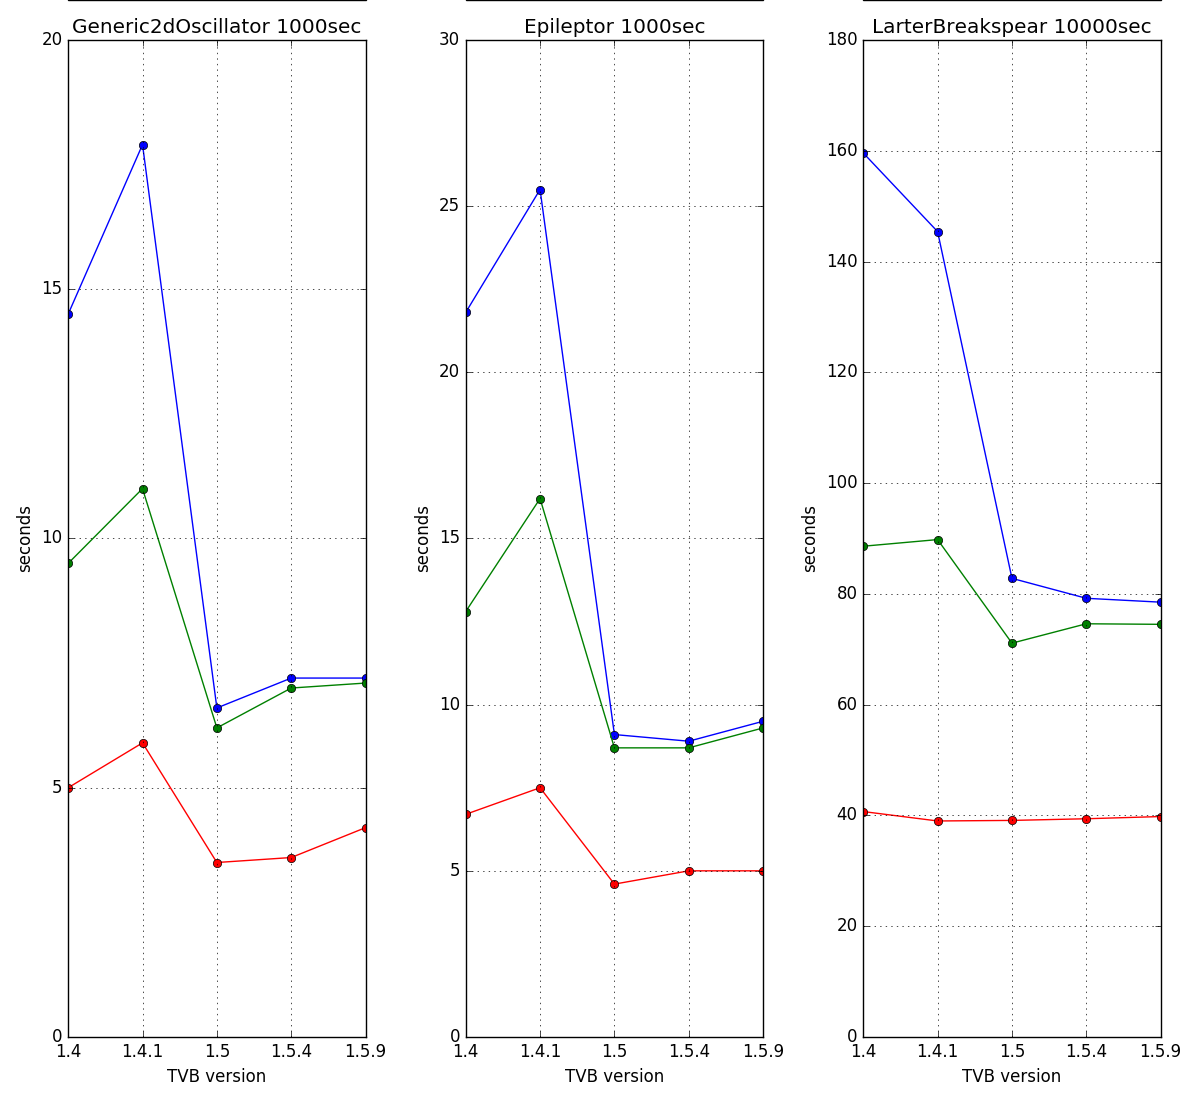
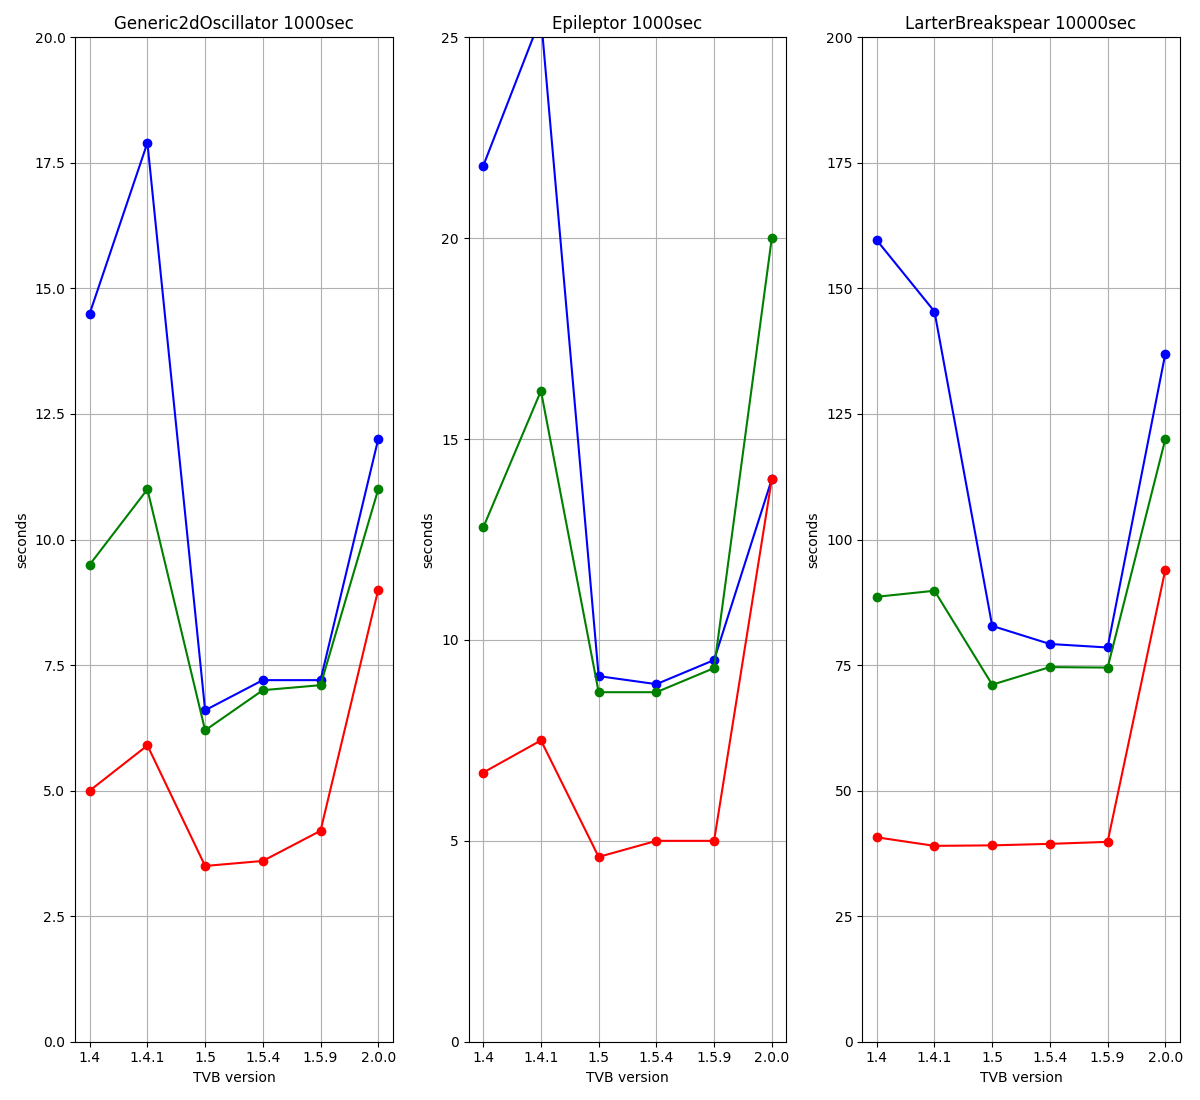
TVB-2521 Add Benchmarks with the latest state

diff --git a/doc_site/benchmarks/generate_benchmark_img.py b/doc_site/benchmarks/generate_benchmark_img.py
@@ -53,24 +53,50 @@ def plot(subplot, title, ymax, data1, label1, data2, label2, data3, label3):
     pyplot.title(title)
 
 
-x = [1, 2, 3, 4, 5]
-x_labels = ["1.4", "1.4.1", "1.5", "1.5.4", "1.5.9"]
+def plot_neotraits():
+    x = [1, 2, 3, 4, 5, 6, 7, 8, 9]
+    x_labels = ["2", "4", "8", "16", "32", "64", "128", "256", "512"]
+    figure = pyplot.figure(figsize=(15, 7))
+
+    pyplot.plot(x, [20.4, 19.1, 20.3, 20.4, 19.8, 18.9, 17.2, 16.1, 14.4], 'b', label="Epileptor", linestyle="--",
+                linewidth=3)
+    pyplot.plot(x, [44.1, 42.7, 43.1, 42.8, 39.4, 40.4, 36.7, 33.9, 27.4], 'b', label="Epileptor neo", linewidth=3)
+    pyplot.plot(x, [32.7, 32.5, 32.5, 26.3, 26.4, 27.9, 26.5, 24.7, 22.4], 'g', label="RWW", linestyle="--",
+                linewidth=3)
+    pyplot.plot(x, [78.9, 79.0, 78.4, 78.7, 77.6, 76.6, 68.9, 64.0, 53.9], 'g', label="RWW neo", linewidth=3)
+    pyplot.plot(x, [31.4, 31.3, 30.8, 30.9, 31.3, 30.7, 29.9, 28.8, 26.2], 'r', label="G2D", linestyle="--",
+                linewidth=3)
+    pyplot.plot(x, [63.3, 62.4, 62.7, 61.9, 61.6, 59.2, 57.1, 52.3, 45.8], 'r', label="G2D neo", linewidth=3)
+    pyplot.legend(fontsize=10)
+    pyplot.xticks(x, x_labels)
+    pyplot.ylim(ymin=0, ymax=80)
+    pyplot.ylabel("kHz")
+    pyplot.xlabel("nodes")
+    pyplot.grid(True)
+    pyplot.title("Simulation cycles")
+
+    pyplot.show()
+    figure.savefig("../../_static/benchmarks-neotraits.png")
+
+
+x = [1, 2, 3, 4, 5, 6]
+x_labels = ["1.4", "1.4.1", "1.5", "1.5.4", "1.5.9", "2.0.0"]
 figure = pyplot.figure(figsize=(12, 11))
 
 plot(131, "Generic2dOscillator 1000sec", 20,
-     [14.5, 17.9, 6.6, 7.2, 7.2], "nodes=192 dt=0.05",
-     [9.5, 11.0, 6.2, 7.0, 7.1], "nodes=96 dt=0.05",
-     [5, 5.9, 3.5, 3.6, 4.2], "nodes=96 dt=0.1")
+     [14.5, 17.9, 6.6, 7.2, 7.2, 12], "nodes=192 dt=0.05",
+     [9.5, 11.0, 6.2, 7.0, 7.1, 11], "nodes=96 dt=0.05",
+     [5, 5.9, 3.5, 3.6, 4.2, 9], "nodes=96 dt=0.1")
 
-plot(132, "Epileptor 1000sec", 30,
-     [21.8, 25.5, 9.1, 8.9, 9.5], "nodes=192 dt=0.05",
-     [12.8, 16.2, 8.7, 8.7, 9.3], "nodes=96 dt=0.05",
-     [6.7, 7.5, 4.6, 5.0, 5.0], "nodes=96 dt=0.1")
+plot(132, "Epileptor 1000sec", 25,
+     [21.8, 25.5, 9.1, 8.9, 9.5, 14], "nodes=192 dt=0.05",
+     [12.8, 16.2, 8.7, 8.7, 9.3, 20], "nodes=96 dt=0.05",
+     [6.7, 7.5, 4.6, 5.0, 5.0, 14], "nodes=96 dt=0.1")
 
-plot(133, "LarterBreakspear 10000sec", 180,
-     [159.6, 145.4, 82.8, 79.2, 78.5], "nodes=192 dt=0.1",
-     [88.6, 89.8, 71.1, 74.6, 74.5], "nodes=96 dt=0.1",
-     [40.7, 39.0, 39.1, 39.4, 39.8], "nodes=96 dt=0.2")
+plot(133, "LarterBreakspear 10000sec", 200,
+     [159.6, 145.4, 82.8, 79.2, 78.5, 137], "nodes=192 dt=0.1",
+     [88.6, 89.8, 71.1, 74.6, 74.5, 120], "nodes=96 dt=0.1",
+     [40.7, 39.0, 39.1, 39.4, 39.8, 94], "nodes=96 dt=0.2")
 
 pyplot.show()
 figure.savefig("../../_static/benchmarks-evolution-mac.png")

diff --git a/doc_site/benchmarks/tvb_2.0_mac.rst b/doc_site/benchmarks/tvb_2.0_mac.rst
@@ -1,21 +1,23 @@
-.. _benchmark_tvb_159:
+.. _benchmark_tvb_20:
 
 
-**********************
-Benchmarks - TVB 1.5.9
-**********************
+********************
+Benchmarks - TVB 2.0
+********************
 
 
 +------------+-----------------------------------------------------------------+
 |                               System Info                                    |
 +============+=================================================================+
-|OS          | OS X High Sierra  10.13.6                                       |
+|OS          | OS X Yosemite  10.13.6                                          |
 +------------+-----------------------------------------------------------------+
 |Memory      | 16GB DDR3  @1600MHz                                             |
 +------------+-----------------------------------------------------------------+
 |Processor   | 4 x 2.5 GHz Intel Core i7                                       |
 +------------+-----------------------------------------------------------------+
-|TVB version | 1.5.9 #8865 - Mac x64                                           |
+|TVB version | 2.0 #9110 - Mac x64                                             |
++------------+-----------------------------------------------------------------+
+|Run on      | 16.10.2019                                                      |
 +------------+-----------------------------------------------------------------+
 
 
@@ -26,7 +28,7 @@ The local model parameters are usually irrelevant for the purpose of benchmarkin
 +--------------------+------------------------------------+
 | Case A                                                  |
 +====================+====================================+
-|Model               | Generic2dOscillator (numba dfun)   |
+|Model               | Generic2dOscillator                |
 +--------------------+------------------------------------+
 |Coupling            | Linear                             |
 +--------------------+------------------------------------+
@@ -46,36 +48,36 @@ The local model parameters are usually irrelevant for the purpose of benchmarkin
 +------------------------+--------+-------+-----------+---------+-----------+
 |                        |    (ms)|       |    (mm/ms)|     (ms)| min:sec   |
 +========================+========+=======+===========+=========+===========+
-|    Generic2dOscillator |   1000 |    68 |      30.0 |     0.1 |   00:03.7 |
+|    Generic2dOscillator |   1000 |    68 |      30.0 |     0.1 |   00:09.1 |
 +------------------------+--------+-------+-----------+---------+-----------+
-|    Generic2dOscillator |   1000 |    68 |       3.0 |     0.1 |   00:03.9 |
+|    Generic2dOscillator |   1000 |    68 |       3.0 |     0.1 |   00:08.6 |
 +------------------------+--------+-------+-----------+---------+-----------+
-|    Generic2dOscillator |   1000 |    68 |      30.0 |    0.05 |   00:06.7 |
+|    Generic2dOscillator |   1000 |    68 |      30.0 |    0.05 |   00:11.0 |
 +------------------------+--------+-------+-----------+---------+-----------+
-|    Generic2dOscillator |   1000 |    68 |       3.0 |    0.05 |   00:06.8 |
+|    Generic2dOscillator |   1000 |    68 |       3.0 |    0.05 |   00:10.6 |
 +------------------------+--------+-------+-----------+---------+-----------+
-|    Generic2dOscillator |   1000 |    96 |      30.0 |     0.1 |   00:04.2 |
+|    Generic2dOscillator |   1000 |    96 |      30.0 |     0.1 |   00:09.3 |
 +------------------------+--------+-------+-----------+---------+-----------+
-|    Generic2dOscillator |   1000 |    96 |       3.0 |     0.1 |   00:04.3 |
+|    Generic2dOscillator |   1000 |    96 |       3.0 |     0.1 |   00:09.5 |
 +------------------------+--------+-------+-----------+---------+-----------+
-|    Generic2dOscillator |   1000 |    96 |      30.0 |    0.05 |   00:07.2 |
+|    Generic2dOscillator |   1000 |    96 |      30.0 |    0.05 |   00:11.8 |
 +------------------------+--------+-------+-----------+---------+-----------+
-|    Generic2dOscillator |   1000 |    96 |       3.0 |    0.05 |   00:07.1 |
+|    Generic2dOscillator |   1000 |    96 |       3.0 |    0.05 |   00:11.9 |
 +------------------------+--------+-------+-----------+---------+-----------+
-|    Generic2dOscillator |   1000 |   192 |      30.0 |     0.1 |   00:04.3 |
+|    Generic2dOscillator |   1000 |   192 |      30.0 |     0.1 |   00:09.1 |
 +------------------------+--------+-------+-----------+---------+-----------+
-|    Generic2dOscillator |   1000 |   192 |       3.0 |     0.1 |   00:04.2 |
+|    Generic2dOscillator |   1000 |   192 |       3.0 |     0.1 |   00:09.2 |
 +------------------------+--------+-------+-----------+---------+-----------+
-|    Generic2dOscillator |   1000 |   192 |      30.0 |    0.05 |   00:07.2 |
+|    Generic2dOscillator |   1000 |   192 |      30.0 |    0.05 |   00:12.2 |
 +------------------------+--------+-------+-----------+---------+-----------+
-|    Generic2dOscillator |   1000 |   192 |       3.0 |    0.05 |   00:07.4 |
+|    Generic2dOscillator |   1000 |   192 |       3.0 |    0.05 |   00:12.0 |
 +------------------------+--------+-------+-----------+---------+-----------+
 
 
 +--------------------+------------------------------------+
 | Case B                                                  |
 +====================+====================================+
-|Model               | Epileptor (numba dfun + modif. z)  |
+|Model               | Epileptor                          |
 +--------------------+------------------------------------+
 |Coupling            | Linear                             |
 +--------------------+------------------------------------+
@@ -95,29 +97,29 @@ The local model parameters are usually irrelevant for the purpose of benchmarkin
 +------------------------+--------+-------+-----------+---------+-----------+
 |                        |    (ms)|       |    (mm/ms)|     (ms)| min:sec   |
 +========================+========+=======+===========+=========+===========+
-|              Epileptor |   1000 |    68 |      30.0 |     0.1 |   00:04.6 |
+|              Epileptor |   1000 |    68 |      30.0 |     0.1 |   00:09.3 |
 +------------------------+--------+-------+-----------+---------+-----------+
-|              Epileptor |   1000 |    68 |       3.0 |     0.1 |   00:04.5 |
+|              Epileptor |   1000 |    68 |       3.0 |     0.1 |   00:09.6 |
 +------------------------+--------+-------+-----------+---------+-----------+
-|              Epileptor |   1000 |    68 |      30.0 |    0.05 |   00:08.1 |
+|              Epileptor |   1000 |    68 |      30.0 |    0.05 |   00:13.3 |
 +------------------------+--------+-------+-----------+---------+-----------+
-|              Epileptor |   1000 |    68 |       3.0 |    0.05 |   00:08.1 |
+|              Epileptor |   1000 |    68 |       3.0 |    0.05 |   00:16.2 |
 +------------------------+--------+-------+-----------+---------+-----------+
-|              Epileptor |   1000 |    96 |      30.0 |     0.1 |   00:05.0 |
+|              Epileptor |   1000 |    96 |      30.0 |     0.1 |   00:25.5 |
 +------------------------+--------+-------+-----------+---------+-----------+
-|              Epileptor |   1000 |    96 |       3.0 |     0.1 |   00:05.3 |
+|              Epileptor |   1000 |    96 |       3.0 |     0.1 |   00:14.1 |
 +------------------------+--------+-------+-----------+---------+-----------+
-|              Epileptor |   1000 |    96 |      30.0 |    0.05 |   00:09.3 |
+|              Epileptor |   1000 |    96 |      30.0 |    0.05 |   00:49.5 |
 +------------------------+--------+-------+-----------+---------+-----------+
-|              Epileptor |   1000 |    96 |       3.0 |    0.05 |   00:09.7 |
+|              Epileptor |   1000 |    96 |       3.0 |    0.05 |   00:20.5 |
 +------------------------+--------+-------+-----------+---------+-----------+
-|              Epileptor |   1000 |   192 |      30.0 |     0.1 |   00:05.4 |
+|              Epileptor |   1000 |   192 |      30.0 |     0.1 |   00:14.8 |
 +------------------------+--------+-------+-----------+---------+-----------+
-|              Epileptor |   1000 |   192 |       3.0 |     0.1 |   00:05.7 |
+|              Epileptor |   1000 |   192 |       3.0 |     0.1 |   00:25.3 |
 +------------------------+--------+-------+-----------+---------+-----------+
-|              Epileptor |   1000 |   192 |      30.0 |    0.05 |   00:09.5 |
+|              Epileptor |   1000 |   192 |      30.0 |    0.05 |   00:16.1 |
 +------------------------+--------+-------+-----------+---------+-----------+
-|              Epileptor |   1000 |   192 |       3.0 |    0.05 |   00:10.0 |
+|              Epileptor |   1000 |   192 |       3.0 |    0.05 |   00:14.1 |
 +------------------------+--------+-------+-----------+---------+-----------+
 
 
@@ -139,23 +141,21 @@ The local model parameters are usually irrelevant for the purpose of benchmarkin
 
 
 +------------------------+--------+-------+-----------+---------+-----------+
-|      Results                                                              |
-+------------------------+--------+-------+-----------+---------+-----------+
 |        Model           | Sim.   | Nodes |Conduction | time    | Execution |
 |                        | Length |       |speed      | step    | time      |
 +------------------------+--------+-------+-----------+---------+-----------+
 |                        |    (ms)|       |    (mm/ms)|     (ms)| min:sec   |
 +========================+========+=======+===========+=========+===========+
-|       LarterBreakspear |  10000 |    68 |      10.0 |     0.2 |   00:36.9 |
+|       LarterBreakspear |  10000 |    68 |      10.0 |     0.2 |   01:25.2 |
 +------------------------+--------+-------+-----------+---------+-----------+
-|       LarterBreakspear |  10000 |    68 |      10.0 |     0.1 |   01:06.3 |
+|       LarterBreakspear |  10000 |    68 |      10.0 |     0.1 |   02:53.8 |
 +------------------------+--------+-------+-----------+---------+-----------+
-|       LarterBreakspear |  10000 |    96 |      10.0 |     0.2 |   00:39.8 |
+|       LarterBreakspear |  10000 |    96 |      10.0 |     0.2 |   01:34.6 |
 +------------------------+--------+-------+-----------+---------+-----------+
-|       LarterBreakspear |  10000 |    96 |      10.0 |     0.1 |   01:14.5 |
+|       LarterBreakspear |  10000 |    96 |      10.0 |     0.1 |   02:00.1 |
 +------------------------+--------+-------+-----------+---------+-----------+
-|       LarterBreakspear |  10000 |   192 |      10.0 |     0.2 |   00:41.7 |
+|       LarterBreakspear |  10000 |   192 |      10.0 |     0.2 |   01:42.5 |
 +------------------------+--------+-------+-----------+---------+-----------+
-|       LarterBreakspear |  10000 |   192 |      10.0 |     0.1 |   01:18.5 |
+|       LarterBreakspear |  10000 |   192 |      10.0 |     0.1 |   02:17.3 |
 +------------------------+--------+-------+-----------+---------+-----------+
 

diff --git a/doc_site/benchmarks/top_benchmarks.rst b/doc_site/benchmarks/top_benchmarks.rst
@@ -33,6 +33,7 @@ Performance evolution from a TVB version to another.
 .. toctree::
    :maxdepth: 2
 
+   tvb_2.0_mac
    tvb_1.5.9_mac
    tvb_1.5.4_mac
    tvb_1.5_mac
@@ -42,6 +43,13 @@ Performance evolution from a TVB version to another.
    tvb_1.3.1
    tvb_1.3
    tvb_1.2
+
+
+.. figure:: /_static/benchmarks-neotraits.png
+    :width: 1000px
+    :figclass: demo-figure
+
+    Only tvb-library Version 1.* vs 2.0
 
 
 .. figure:: /_static/benchmarks-evolution-mac.png
